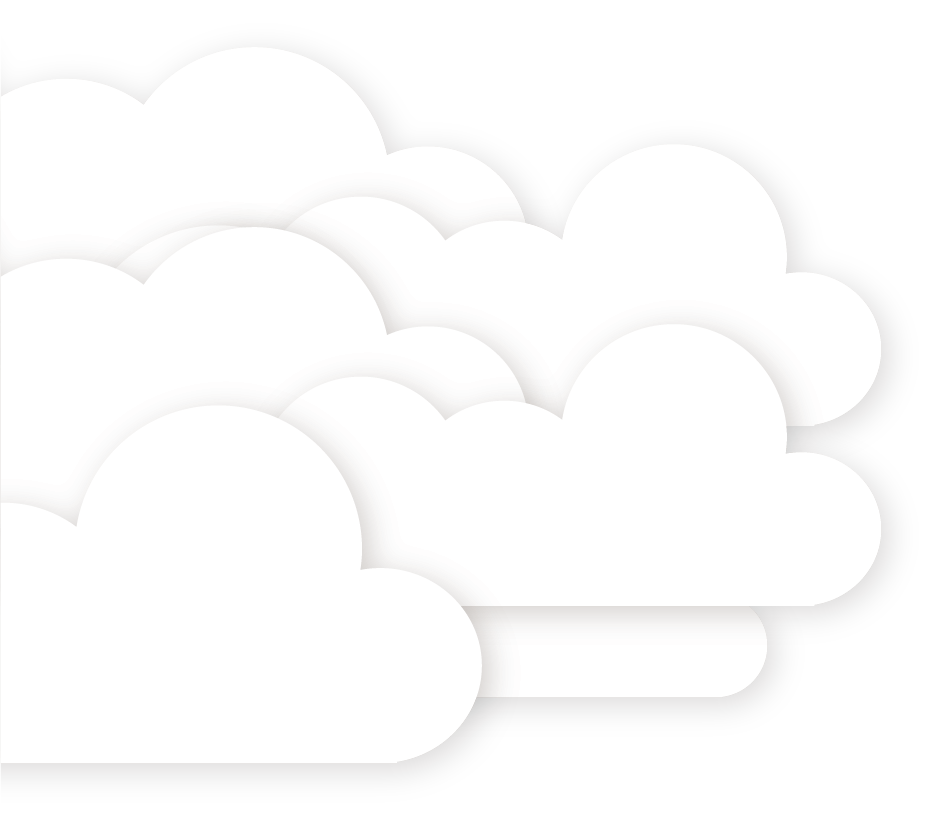
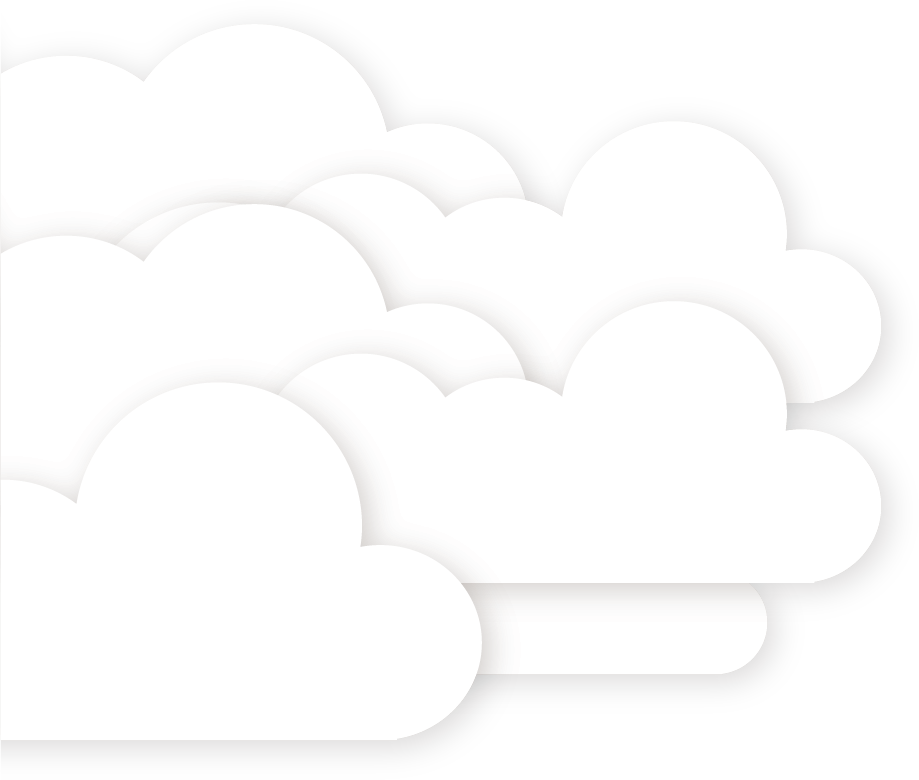
수정:인트로 큰 구름 애니메이션 실행시  스크롤방지작업

diff --git a/intro/css/style.css b/intro/css/style.css
@@ -235,22 +235,22 @@ h1 {display:inline-block;margin-top:5.5rem;padding:1rem 4rem;/*border: 16px inse
 
 /* 구름 */
 /* .cloud_box {width:100%;height:100%;} */
-.cloud1{ position:absolute;z-index:1;width:58rem; height:51rem; background:url(../img/big_cloud1.png) center left / 50% no-repeat ; transition: all .2s;animation: upCloud  6s linear 1s forwards; -webkit-animation: upCloud  6s linear 1s forwards; }
-.cloud2{position:absolute;z-index:1;right:0; width:53rem; height:54rem; background:url(../img/big_cloud2.png) center right / 50%  no-repeat; transition: all .2s;animation: upCloud  5s linear 3s forwards; -webkit-animation: upCloud  5s linear 3s forwards; }
+.cloud1{top:-100%;position:absolute;z-index:1;width:29rem; height:23rem; background:url(../img/big_cloud1.png) center left / 100% no-repeat ; transition: all .2s;animation: upCloud  6s linear 1s forwards; -webkit-animation: upCloud  6s linear 1s forwards; }
+.cloud2{position:absolute;top:-100%;z-index:1;right:0; width:26rem; height:26rem; background:url(../img/big_cloud2.png) center right / 100%  no-repeat; transition: all .2s;animation: upCloud  5s linear 3s forwards; -webkit-animation: upCloud  5s linear 3s forwards; }
 
 /* 큰구름 애니메이션 */
 @keyframes upCloud{
 	0% {
-		top:0;
+		top:34%;
 		
 	}
 
 	50% {
-		top: -50%;
+		top: 0;
 	}
 
 	100% {
-		top: -150%;
+		top: -100%;
 	}
 }
 .clouds { filter: drop-shadow(0 0 3px rgba(50, 50, 50, 0.75)); -webkit-filter: drop-shadow(0 0 3px rgba(50, 50, 50, 0.75));
